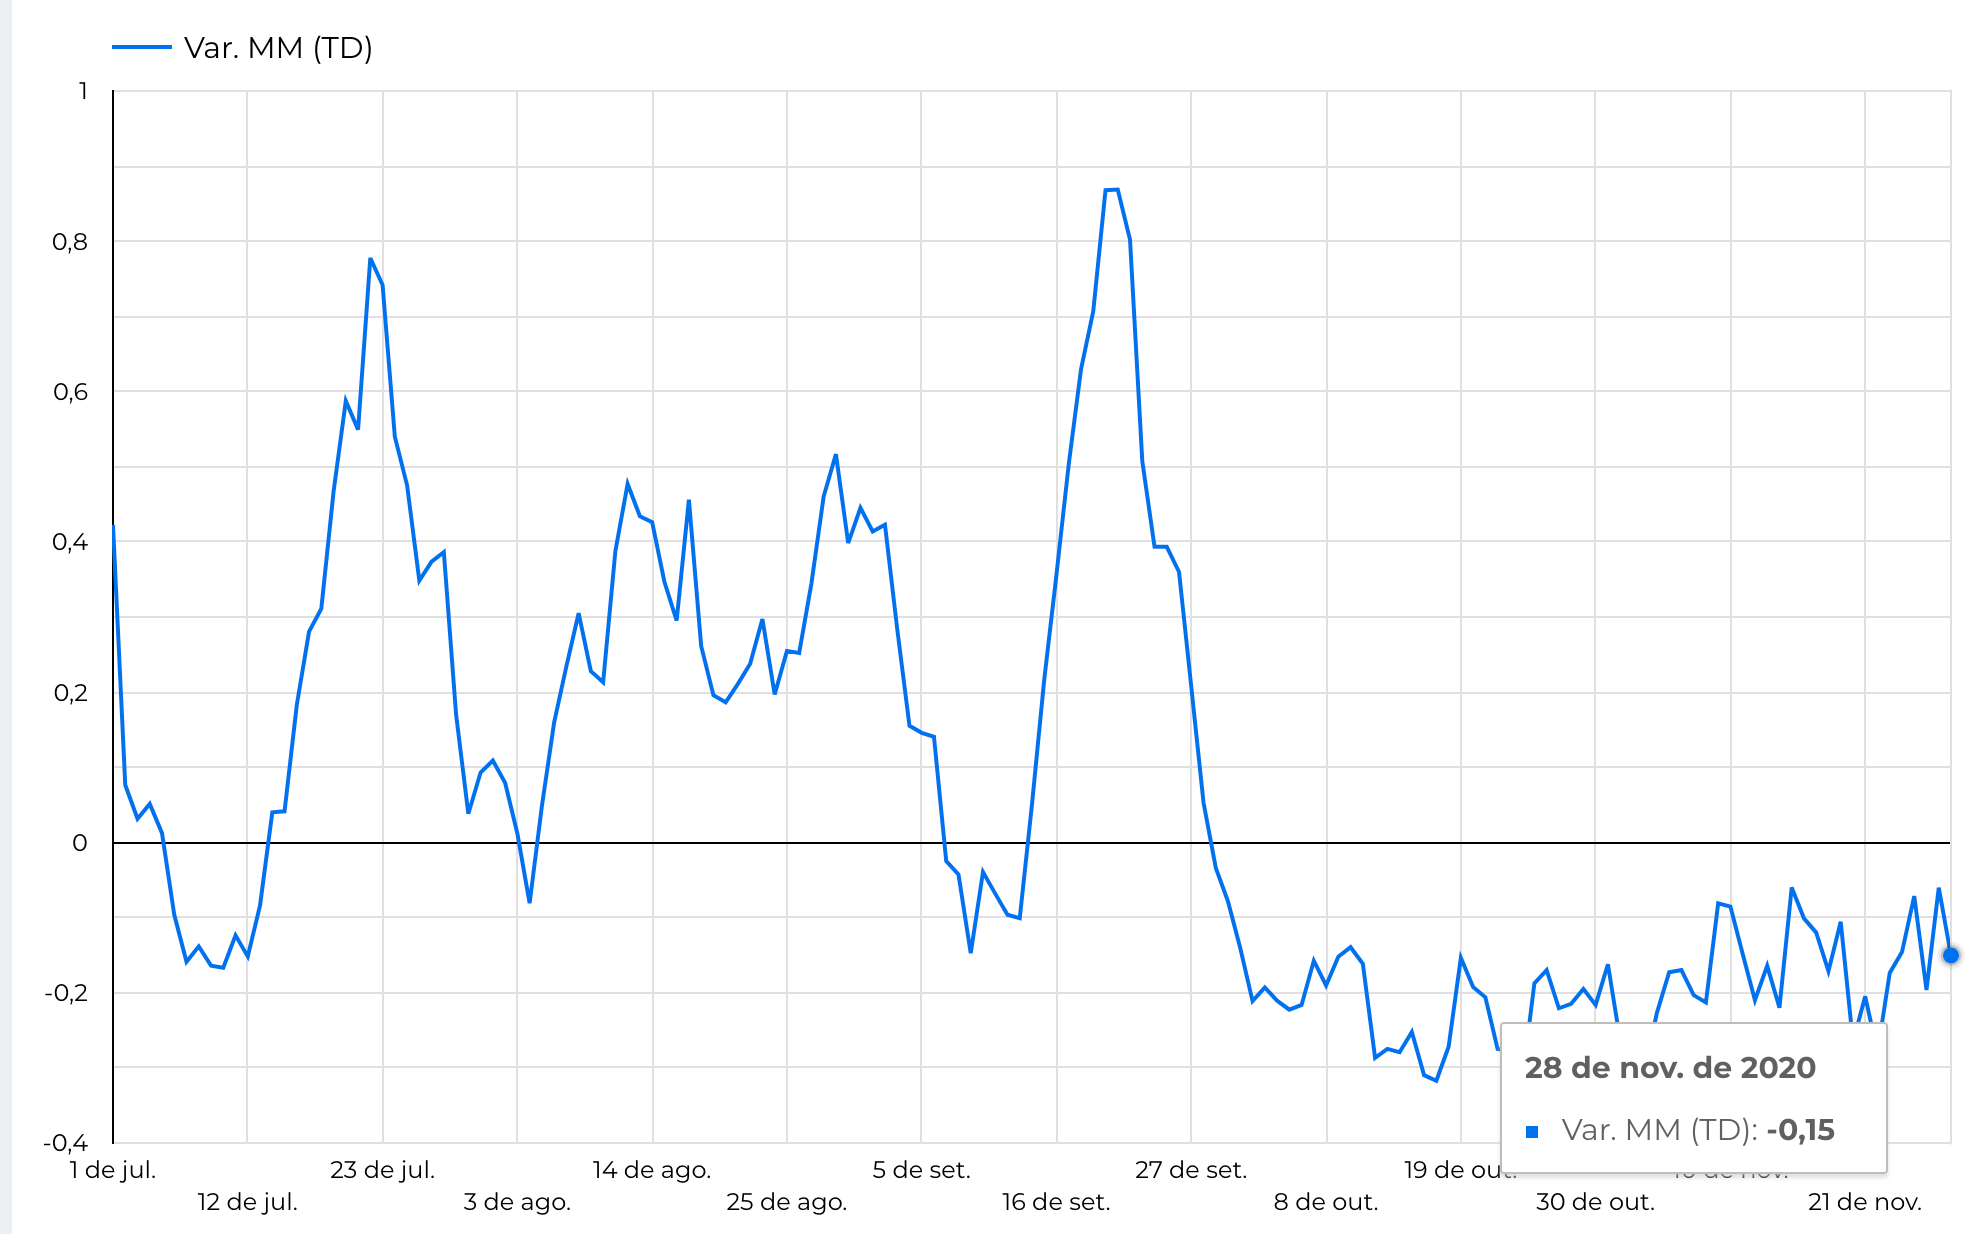
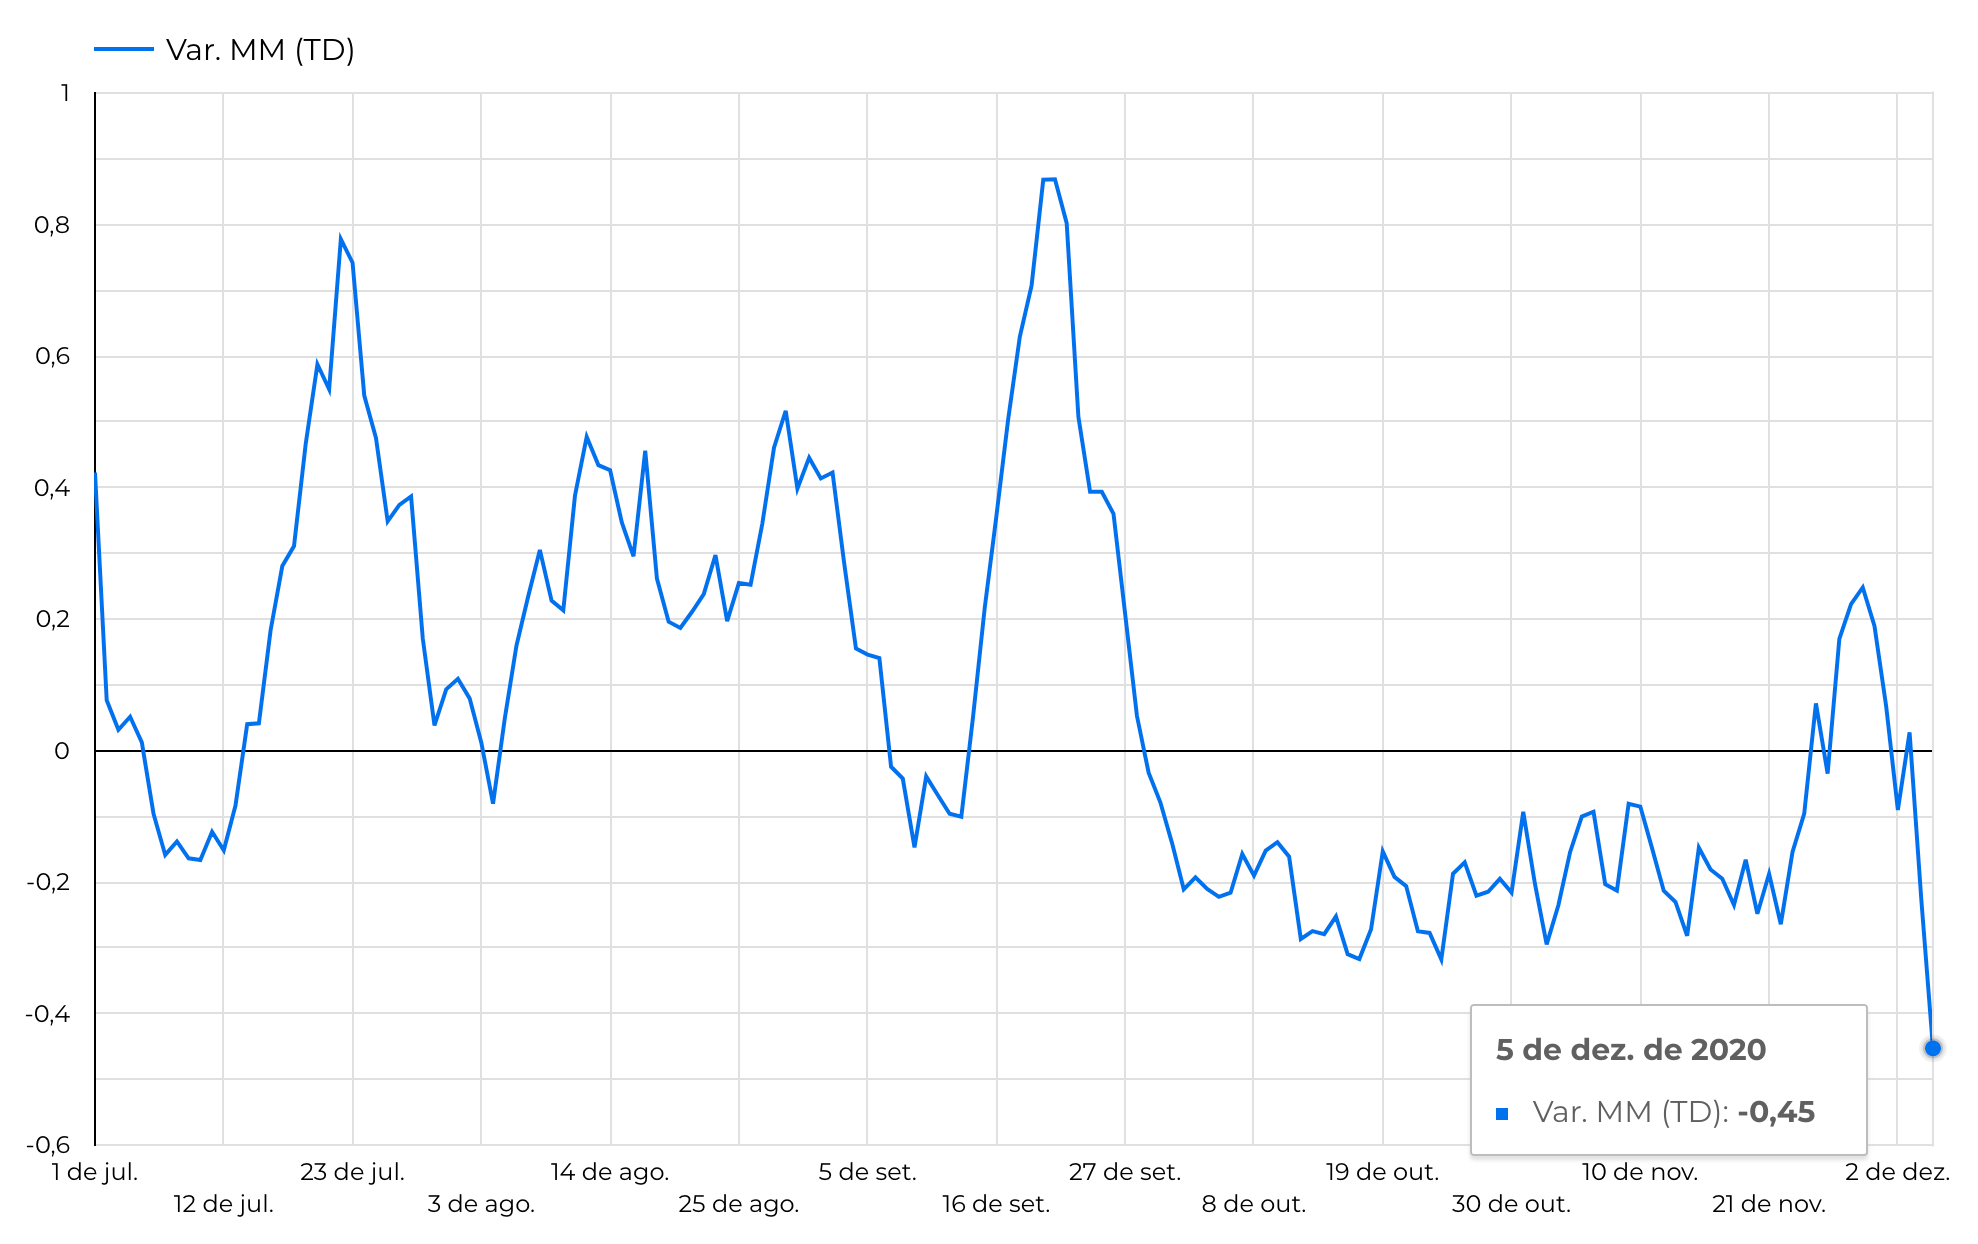
Atualizacao dos dados

diff --git a/index.html b/index.html
@@ -135,7 +135,7 @@
               <!-- CARD.TITLE.TEXT -->
               <h2 class="display">Casos de Uberaba</h2>
             <!--/a-->
-            <p class="card-text">Dados e projeções para o município de Uberaba, informações até o dia 28 de novembro de 2020. Informações coletadas com a própria Secretaria Municipal de Saúde de Uberaba.</p>
+            <p class="card-text">Dados e projeções para o município de Uberaba, informações até o dia 05 de dezembro de 2020. Informações coletadas com a própria Secretaria Municipal de Saúde de Uberaba.</p>
             <!-- CARD.TITLE.DESCRIPTION -->
           </div>
         </div>
@@ -147,8 +147,8 @@
 
         <p class="text-justify mt-3">
             <ul>
-            <li>No dia de hoje (28/11/2020), acumulamos 8861 casos notificados.</li>
-            <li>Projeção para dia 03 de dezembro é de 9021 podendo chegar até 9466 casos notificados, como indicado pela faixa cinza.</li>
+            <li>No dia de hoje (05/12/2020), acumulamos 9119 casos notificados.</li>
+            <li>Projeção para dia 10 de dezembro é de 9188 podendo chegar até 9633 casos notificados, como indicado pela faixa cinza.</li>
             <li>Pontos pretos: número de casos confirmados a cada dia.</li>
             <li>Pontos laranjas: a previsão para os próximos 5 dias.</li>
             </ul>
@@ -176,7 +176,7 @@
         </div>
 
         <p class="text-justify mt-3">
-        Todos os dados foram obtidos da própria Secretária Municipal de Saúde de Uberaba até o dia 28 de novembro de 2020.
+        Todos os dados foram obtidos da própria Secretária Municipal de Saúde de Uberaba até o dia 05 de dezembro de 2020.
         </p>
 
 <!--        <a href="https://datastudio.google.com/reporting/1CX1pHjDrbb7X1gEIeVY1sxQp8PziWgpN/page/g6OUB?s=hWFHXQaeMZY" target="_blank">
@@ -193,7 +193,7 @@
         <p class="text-justify mt-3"> Figura 2: Indicadores dos casos de Covid-19 em Uberaba. Clique na imagem para ver o gráfico interativo </p>
 
         <p class="text-justify mt-3">
-        Os gráficos da Figura 2 apresentam um panorama geral da evolução da covid-19 na cidade de Uberaba. No dia 28/11/2020 a cidade apresenta 8861 casos notificados confirmados dos quais 94% são considerados recuperados.
+        Os gráficos da Figura 2 apresentam um panorama geral da evolução da covid-19 na cidade de Uberaba. No dia 05/12/2020 a cidade apresenta 8861 casos notificados confirmados dos quais 94% são considerados recuperados.
         </p>
 
         <div class="media-body">
@@ -208,7 +208,7 @@
         </p>
 
         <p class="text-justify mt-3">
-        A Figura 3, apresenta a média móvel dos casos confirmados considerando um intervalo de sete dias. A média móvel dos casos confirmados em Uberaba no dia 28/11 é de 8768.
+        A Figura 3, apresenta a média móvel dos casos confirmados considerando um intervalo de sete dias. A média móvel dos casos confirmados em Uberaba no dia 05/12 é de 9079.
         </p>
 
         <a href="https://datastudio.google.com/reporting/1eNQdQv-rpu3yne8bvqD71-j8gS44fYts/page/sLUUB?s=sfL5MYwUyi4" target="_blank">
@@ -222,7 +222,7 @@
         </p>
 
         <p class="text-justify mt-3">
-       A Figura 4 apresenta a curva de casos ativos ao longo do tempo junto com a média móvel considerando intervalos de sete dias. A média móvel de casos ativos da covid-19 no dia 28/11 é de 290.
+       A Figura 4 apresenta a curva de casos ativos ao longo do tempo junto com a média móvel considerando intervalos de sete dias. A média móvel de casos ativos da covid-19 no dia 05/12 é de 357.
         </p>
 
         <a href="https://datastudio.google.com/reporting/1eNQdQv-rpu3yne8bvqD71-j8gS44fYts/page/sLUUB?s=sfL5MYwUyi4" target="_blank">
@@ -248,7 +248,7 @@
         </p>
 
         <p class="text-justify mt-3">
-        Quando a variação da média móvel fica muitos dias em "situação estável" podemos dizer que estamos em um <b> platô </b>. O platô acontece quando o número de casos ativos permace o mesmo ao longo do tempo. O que significa que a curva de casos acumulados vai crescer em uma velocidade bem baixa, formando umalinha praticamente horizontal.
+        Quando a variação da média móvel fica muitos dias em "situação estável" podemos dizer que estamos em um <b> platô </b>. O platô acontece quando o número de casos ativos permace o mesmo ao longo do tempo. O que significa que a curva de casos acumulados vai crescer em uma velocidade bem baixa, formando uma linha praticamente horizontal.
         </p>
 
         <p class="text-justify mt-3">
@@ -272,7 +272,7 @@
         <p class="text-justify mt-3"> Figura 6: Novos casos diários confirmados e média móvel </p>
 
         <p class="text-justify mt-3">
-        A Figura 7  apresenta a evolução da variação da média móvel dos novos casos diários. No dia 28/11 a variação é de -15%, nesse momento, indica situação de estabilidade, de acordo com os parâmetros usados pelos especialistas.
+        A Figura 7  apresenta a evolução da variação da média móvel dos novos casos diários. No dia 05/12 a variação é de -23%.
         </p>
 
 
@@ -289,11 +289,11 @@
         Duas taxas dão importantes quando precisa entender o número de óbitos de uma doença,  a taxa de letalidade e a taxa de mortalidade. A letalidade é uma taxa que compara o número de óbitos com a quantidade de pessoas infectadas pela doença. A mortalidade é um índice obtido por uma relação dos óbitos por uma causa específica em um determinado período de tempo para cada 100.000 habitantes da área analisada.
 
         <p class="text-justify mt-3">
-        <li> A <b> taxa de letalidade </b> é calculada como o número total de óbitos dividido pelo número total de casos confirmados. Hoje, a taxa de letalidade de Uberaba é de 2,55%. Isso significa que a cada 100 pessoas que tem o dignóstico confirmado de covid-19, 2,55 dessas pessoas podem vir a óbito.</li>
+        <li> A <b> taxa de letalidade </b> é calculada como o número total de óbitos dividido pelo número total de casos confirmados. Hoje, a taxa de letalidade de Uberaba é de 2,53%. Isso significa que a cada 100 pessoas que tem o dignóstico confirmado de covid-19, 2,53 dessas pessoas podem vir a óbito.</li>
         </p>
 
         <p class="text-justify mt-3">
-        <li>A <b>taxa de mortalidade </b> é calculada considerando o número de óbitos pelo número total da população de Uberaba vezes 100 mil. No dia 28/11/2020 a taxa de mortalidade é de 67,71/100mil habitantes. Isso significa que a cada 100 mil pessoas de Uberaba, 67,71 delas podem vir a óbito por causa da covid-19.</li>
+        <li>A <b>taxa de mortalidade </b> é calculada considerando o número de óbitos pelo número total da população de Uberaba vezes 100 mil. No dia 05/12/2020 a taxa de mortalidade é de 69,21/100mil habitantes. Isso significa que a cada 100 mil pessoas de Uberaba, 69,21 delas podem vir a óbito por causa da covid-19.</li>
         </p>
 
         <p class="text-justify mt-3">
@@ -323,7 +323,7 @@
 
         <!--CARD.TEXT -->
         <p class="text-justify mt-3">
-          O número Reprodutivo efetivo (Rt) é a média de pessoas contaminadas por um infectado. Valores maiores que 1 indicam que o número de novos casos está aumentando. Valores próximos de um indicam um número constante de casos a cada dia. Apenas valores de Rt abaixo de um por muitos dias indicam tendência de redução no número de casos. A média do Rt dos últimos sete dias é de 0,83.
+          O número Reprodutivo efetivo (Rt) é a média de pessoas contaminadas por um infectado. Valores maiores que 1 indicam que o número de novos casos está aumentando. Valores próximos de um indicam um número constante de casos a cada dia. Apenas valores de Rt abaixo de um por muitos dias indicam tendência de redução no número de casos. A média do Rt dos últimos sete dias é de 0,90.
         </p>
         <img src="./web/municipios/MG/Uberaba/taxaRt1.png" class="img-fluid" style="max-height:600px;" alt="Gŕafico mostrando o número de casos acumulados na cidade de Uberaba.">
         <p class="text-center mt-3">
